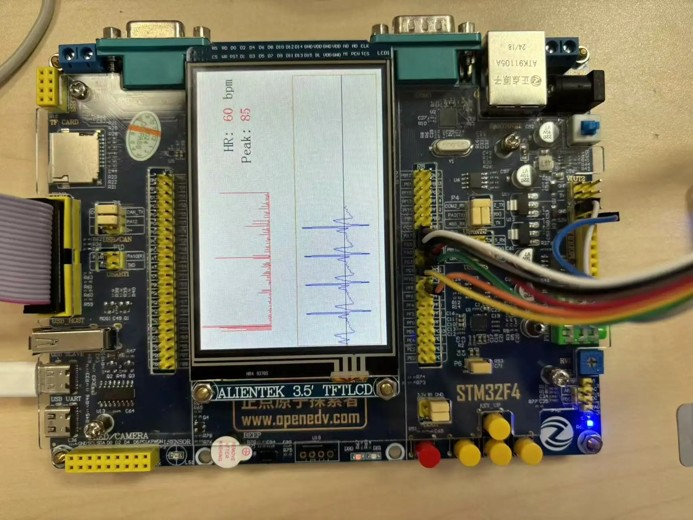
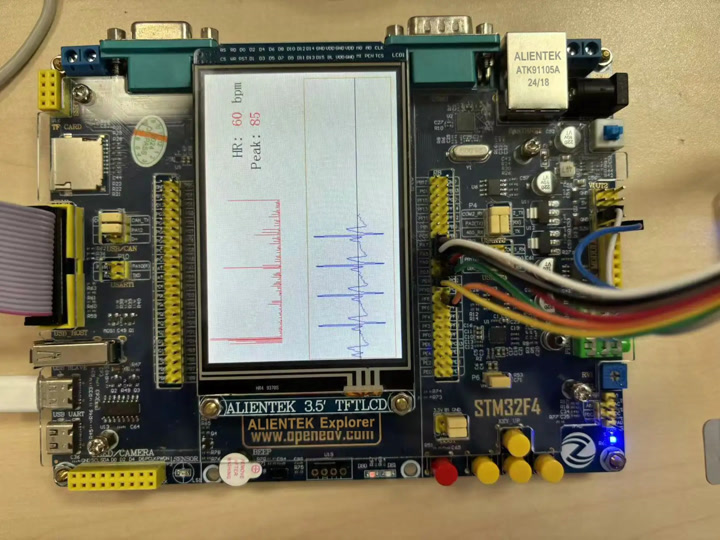
Expand project reasoning and localize figure text in place

Changed region(s): [[0.3333, 0.7385, 0.5152, 0.8], [0.697, 0.0923, 0.7879, 0.1846]]

diff --git a/docs/course-project-evidence.md b/docs/course-project-evidence.md
@@ -33,3 +33,33 @@ These pages summarize the supplied course archives. Original reports and source 
 ## Validation
 
 The site build and static checker validate generated pages, local links, image labels, metadata, sitemap integration, and accessible non-autoplay video markup. Browser checks cover page layout, responsive rendering, navigation, and media. These checks validate the website, not the original experiments.
+
+## Narrative expansion and image-language audit (24 October 2026)
+
+The public pages explain decisions directly and do not refer readers to reports or archives. This internal note retains provenance for maintenance.
+
+- Mobile manipulator: corner-event counting and time guards are supported by the robot task logic; the geometry / actuator separation is supported by the kinematics utilities and direction-dependent servo correction. Pen-position / contact feedback is presented as a next step, not an implemented feature.
+- Stirling engine: angle feedback, tool-unit reconciliation, and the distinction between startup and settled speed are supported by the co-simulation analysis. Relative increases of 61.7% and 43.0% are calculated separately as (modified work / baseline work − 1), using the existing three cycle-work values. No new measured result is introduced.
+- ECG: streaming IIR/FIR state, signed ADC decoding, peak thresholding, the 500 Hz interval conversion, and the internal test signal → simulator → electrode test sequence are supported by the implementation and analysis. Amplitude conversion remains a working diagnosis; windowing and calibration are described as refinement targets without a newly claimed final accuracy.
+
+All 20 detail-page still images and the video poster were visually checked. At the user's request, translations are embedded in the images rather than captions. The image tool supplied English label patches. FFmpeg composites only selected label rectangles onto the original decoded images; all pixels outside these rectangles are verified unchanged. This preserves scientific traces and physical measurements. English assets use the `-en.png` suffix.
+
+| Image | Language handling |
+| --- | --- |
+| Robot course map | English-localized image already in use |
+| Robot platform / course / writing photos | English descriptions; the programmed glyphs 二 and 十 are explained as two horizontal strokes and a cross in the adjacent narrative |
+| Robot kinematic sketch | 12组 deleted; all coordinate axes and other sketch pixels retained |
+| Robot writing chart | English axes and titles |
+| Engine first / revised prototype and CAD | English descriptions; no Chinese technical labels |
+| Engine co-simulation | Embedded Force / Torque / Angle / Angular velocity labels |
+| Engine vertical prototype | Unrelated printed book cropped from the bottom; retained photo pixels are unchanged |
+| Engine work comparison | English axes and labels |
+| Engine cooling / dead-volume P–V plots | Embedded English title, volume / pressure axes, baseline / modified legend; curves and numerical ticks preserved |
+| Engine video poster | Physical experiment, no Chinese technical annotations |
+| ECG raw / filtered waveforms | Embedded English titles, sample-index and amplitude axes; traces preserved |
+| ECG spectrum | Embedded English title, frequency / magnitude axes and raw / low-pass-filtered legend; traces preserved |
+| ECG hardware photographs | Printed Chinese board branding localized as ALIENTEK / ALIENTEK Explorer; displays and measurement data preserved |
+
+No bilingual translation boxes appear on the pages. The chart/data captions explain the project results directly.
+
+Localization QA used 10 rectangular label edits and one faithful crop. Each edited image passed a pixel comparison outside its label rectangles, and the cropped image matches the corresponding original region exactly. The local build workspace retains the localization script, source prompts, and verification JSON; original source media remain available for comparison.
